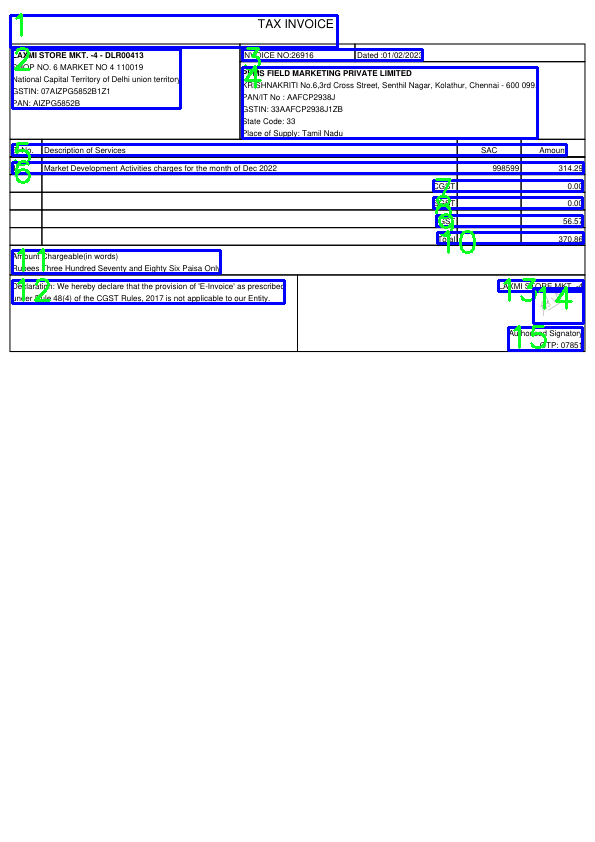
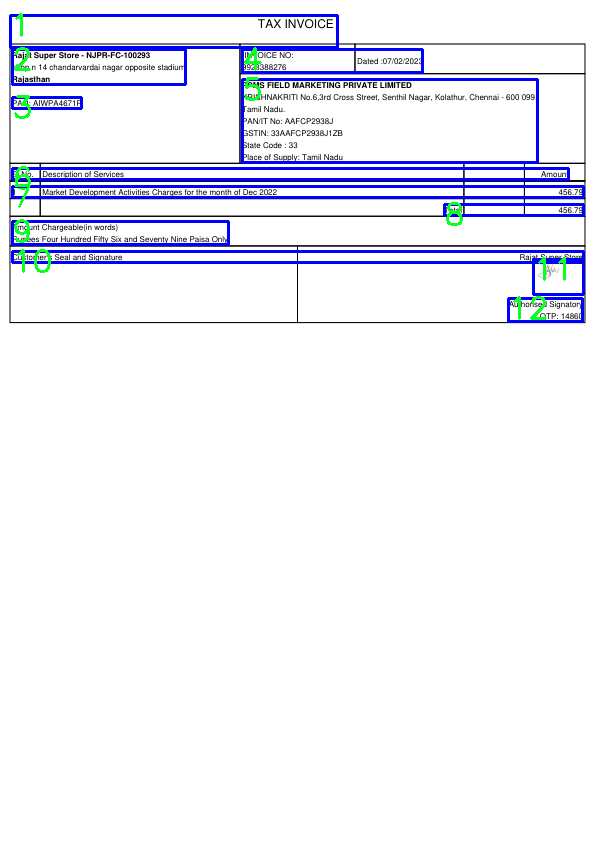
invoice register and unregister gst

Changed region(s): [[0.0, 0.0618, 0.9983, 0.4323], [0.484, 0.3705, 0.5143, 0.4014]]

diff --git a/main.py b/main.py
@@ -88,34 +88,28 @@ output = {
     'total':'',
     'otp':''
 }
-def upload():
+
+def block15(page,text_blocks):
     global output
     global filename
-    filename = askopenfilename() 
-    print(filename)
-    #window.config(title=filename)
-    
-    doc = fitz.open('{f}'.format(f=filename))
-    page = doc.load_page(0)
-    pix = page.get_pixmap()
-    pix.save("page-%i.png" % page.number)
-    
-    pix1 = fitz.Pixmap(pix, 0) if pix.alpha else pix  # PPM does not support transparency
-    imgdata = pix1.tobytes("ppm")  # extremely fast!
-    tkimg = PhotoImage(data = imgdata)
-    #tkimg = PhotoImage(file=r"page-%i.png" % page.number)
-    
-    if tkimg is not None:
-     view_image.configure(image=tkimg,text=filename,compound=BOTTOM)
-     view_image.image=tkimg
-     view_image.text=filename
-     view_image.compound = BOTTOM
-     
-    
-     text = page.get_text('words')
-     text_blocks = page.get_text('blocks')
-     coutt = 1
-     for i in text_blocks:
+    coutt = 1
+    output = {
+    'retailer_name':'',
+    'retailer_address':'',
+    'retailer_gstin':'',
+    'retailer_pan':'',
+    'invoice_number':'',
+    'invoice_date':'',
+    'description_of_services':'',
+    'sac':'',
+    'amount':'',
+    'cgst':'',
+    'sgst':'',
+    'igst':'',
+    'total':'',
+    'otp':''
+    }
+    for i in text_blocks:
       x = i[0]
       y = i[1]
       w = i[2]
@@ -180,12 +174,155 @@ def upload():
       image = cv2.putText(image, '{co}'.format(co=coutt), (int(x), int(y+20)), cv2.FONT_HERSHEY_SIMPLEX, 1.0, (36,255,12), 2)
       coutt = coutt+1
       cv2.imwrite(r"page-%i.png" % page.number, image)
-     print(output)
+      print(output)
+    cv2.imshow(r"page-%i.png" % page.number, image) 
+    pass
+
+def block12(page,text_blocks):
+    global output
+    global filename
+    coutt = 1
+    output = {
+    'retailer_name':'',
+    'retailer_address':'',
+    'retailer_gstin':'',
+    'retailer_pan':'',
+    'invoice_number':'',
+    'invoice_date':'',
+    'description_of_services':'',
+    'sac':'',
+    'amount':'',
+    'cgst':'',
+    'sgst':'',
+    'igst':'',
+    'total':'',
+    'otp':''
+    }
+    for i in text_blocks:
+      x = i[0]
+      y = i[1]
+      w = i[2]
+      h = i[3]
+      
+      
+      if i[5]==1:
+          retailer_info = i[4].split('\n')
+          
+          output['retailer_name'] = retailer_info[0]
+          total_length = len(retailer_info)
+          #output['retailer_gstin'] = retailer_info[total_length-3].replace("GSTIN:","").strip()
+          #output['retailer_pan'] = retailer_info[total_length-2].replace("PAN:","").strip()
+          output['retailer_address'] = "\n".join([retailer_info[m] for m in range(1,total_length-1)])
+      
+      if i[5]==2:
+          pan_info = i[4].split('\n')
+          output['retailer_pan'] = pan_info[0].replace("PAN:","").strip()
+            
+            
+      if i[5]==3:
+          id_info = i[4].split('\n')
+          if(len(id_info)<=3):
+              output['invoice_number']=id_info[0].replace("INVOICE NO:","")
+              output['invoice_date']=id_info[1].replace("Dated :","")
+          else:
+              output['invoice_number']=id_info[1].strip()
+              output['invoice_date']=id_info[2].replace("Dated :","").strip()
+                  
+      if i[5]==6:
+          ds_info = i[4].split('\n')
+          output['description_of_services']=ds_info[1].strip()
+          if len(ds_info) == 4:
+           #output['sac']=ds_info[2].strip()
+           output['amount']=ds_info[2].strip()
+          else: 
+           output['sac']=ds_info[2].strip()
+           output['amount']=ds_info[3].strip()
+                
+    #   if i[5]==6:
+    #       cgst = i[4].split('\n')
+    #       output['cgst']=cgst[1].strip()
+      
+    #   if i[5]==7:
+    #       sgst = i[4].split('\n')
+    #       output['sgst']=sgst[1].strip()
+      
+    #   if i[5]==8:
+    #       igst = i[4].split('\n')
+    #       output['igst']=igst[1].strip()
+      
+      if i[5]==7:
+          total = i[4].split('\n')
+          output['total']=total[1].strip()
+          
+          #print(output)       
+      
+      if i[5]==11:
+          otp = i[4].split('\n')
+          output['otp']=otp[1].replace("OTP:","").strip()
+          
+          
+          
+         
+              
+      
+     
+      image = cv2.imread(r"page-%i.png" % page.number)
+      
+      start_point = (int(x),int( y))
+      end_point = (int(w), int(h))
+      color = (255, 0, 0)
+      thickness = 2
+      image = cv2.rectangle(image, start_point, end_point, color, thickness)
+      image = cv2.putText(image, '{co}'.format(co=coutt), (int(x), int(y+20)), cv2.FONT_HERSHEY_SIMPLEX, 1.0, (36,255,12), 2)
+      coutt = coutt+1
+      cv2.imwrite(r"page-%i.png" % page.number, image)
+    cv2.imshow(r"page-%i.png" % page.number, image) 
+    pass
+
+
+def upload():
+    global output
+    global filename
+    filename = askopenfilename() 
+    print(filename)
+    #window.config(title=filename)
+    
+    doc = fitz.open('{f}'.format(f=filename))
+    page = doc.load_page(0)
+    pix = page.get_pixmap()
+    pix.save("page-%i.png" % page.number)
+    
+    pix1 = fitz.Pixmap(pix, 0) if pix.alpha else pix  # PPM does not support transparency
+    imgdata = pix1.tobytes("ppm")  # extremely fast!
+    tkimg = PhotoImage(data = imgdata)
+    #tkimg = PhotoImage(file=r"page-%i.png" % page.number)
+    
+    if tkimg is not None:
+     view_image.configure(image=tkimg,text=filename,compound=BOTTOM)
+     view_image.image=tkimg
+     view_image.text=filename
+     view_image.compound = BOTTOM
+     
+    
+     text = page.get_text('words')
+     text_blocks = page.get_text('blocks')
+    
+     block_data_len = len(text_blocks)
+     
+     print("=========={l}".format(l=block_data_len))
+     
+     if block_data_len == 15:
+         block15(page=page,text_blocks=text_blocks)
+     elif  block_data_len == 12:
+         block12(page=page,text_blocks=text_blocks)
+        
+     
+     #print(output)
      text = json.dumps(output, indent=2)
      view_text.configure(text=text)
      view_text.text=text
      
-    cv2.imshow(r"page-%i.png" % page.number, image) 
+    
     # view_image.configure(image=image,text=filename,compound=BOTTOM)
     # view_image.image=image
     # view_image.text=filename
